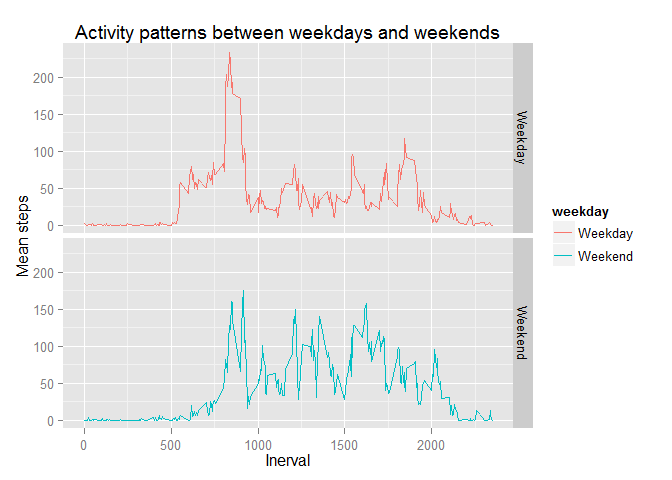
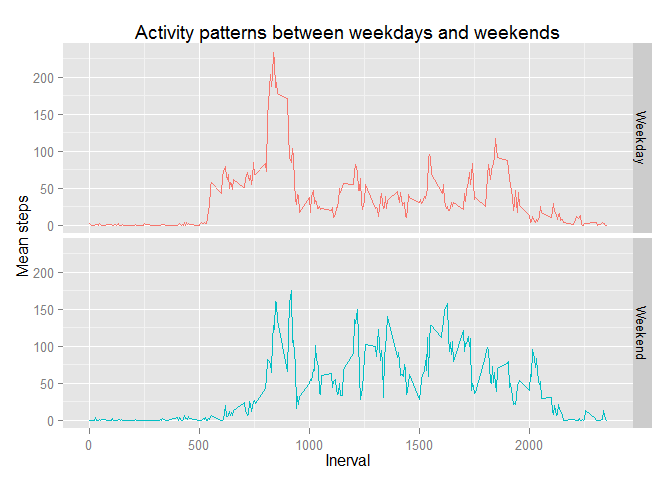
Clean up. Update README file.

diff --git a/PA1_ReproducibleResearch.html b/PA1_ReproducibleResearch.html
@@ -54,17 +54,17 @@ if (window.hljs && document.readyState && document.readyState === "complete") {
 <div id="header">
 <h1 class="title">Reproducible Research: Peer Assessment 1</h1>
 <h4 class="author"><em>Maria Loghin</em></h4>
-<h4 class="date"><em>November, 2016</em></h4>
+<h4 class="date"><em>December, 2016</em></h4>
 </div>
 
 
-<div id="about" class="section level3">
-<h3>About</h3>
-<p>This is the first assignment for Coursera Reproducible Research course, part of Data Science specialization.</p>
+<div id="about" class="section level2">
+<h2>About</h2>
+<p>This is the first assignment for Coursera Reproducible Research course, part of Data Science specialization (by Johns Hopkins University).</p>
 </div>
-<div id="synopsis" class="section level3">
-<h3>Synopsis</h3>
-<p>The purpose of the project is to make use of the R Markdown language to publish the analyses answering a series of questions related to a collection of data about personal movement using an activity monitoring device. The following steps will be performed are to interpret data and answer research questions</p>
+<div id="synopsis" class="section level2">
+<h2>Synopsis</h2>
+<p>The purpose of the project is to make use of the R Markdown language to publish the analyses answering a series of questions related to a collection of data about personal movement using an activity monitoring device. The following steps will be performed to interpret this data and to the answer research questions:</p>
 <ul>
 <li>Loading the dataset and/or processing the data</li>
 <li>What is the mean total number of steps taken per day?</li>
@@ -73,23 +73,22 @@ if (window.hljs && document.readyState && document.readyState === "complete") {
 <li>Differences in activity patterns between weekdays and weekends</li>
 </ul>
 </div>
-<div id="data" class="section level3">
-<h3>Data</h3>
+<div id="data" class="section level2">
+<h2>Data</h2>
 <p>The monitoring device collects data at 5 minute intervals throughout the day. The data consists of two months of data from an anonymous individual collected during the months of October and November, 2012 and include the number of steps taken in 5 minute intervals each day.</p>
-<p>The data for this assignment can be downloaded from the GitHub repository forked from here <a href="http://github.com/rdpeng/RepData_PeerAssessment1">GitHub repository created for this assignment</a></p>
+<p>The data for this assignment can be downloaded from the GitHub repository forked from here <a href="http://github.com/rdpeng/RepData_PeerAssessment1">GitHub repository created for this assignment</a>.</p>
 <ul>
 <li>Dataset: <a href="https://github.com/rdpeng/RepData_PeerAssessment1/blob/master/activity.zip">Activity monitoring data</a></li>
 </ul>
 </div>
-<div id="reproducible-research" class="section level3">
-<h3>Reproducible Research</h3>
-<div id="reading-in-the-dataset-andor-processing-the-data" class="section level4">
-<h4>1. Reading in the dataset and/or processing the data</h4>
+<div id="reproducible-research" class="section level2">
+<h2>Reproducible Research</h2>
+<div id="reading-in-the-dataset-andor-processing-the-data" class="section level3">
+<h3>1. Reading in the dataset and/or processing the data</h3>
 <p>The dataset is stored in a comma-separated-value (CSV) file.</p>
 <pre class="r"><code># Set the working directory 
-setwd(&quot;C:/Personal/MLB/Corsera/ReproducibleResearch/RepData_PeerAssessment1&quot;)
-
-# read file into data dataframe structure
+setwd(&quot;C:/Personal/MLB/Corsera/ReproducibleResearch/RepData_PeerAssessment1&quot;)</code></pre>
+<pre class="r"><code># read file into data dataframe structure
 file&lt;-&quot;./activity.csv&quot;
 temp&lt;-&quot;./activity.zip&quot;
 unzip(temp)
@@ -109,12 +108,13 @@ data$date &lt;- as.Date(data$date , format = &quot;%Y-%m-%d&quot;)</code></pre>
 <li>interval: Identifier for the 5-minute interval in which measurement was taken</li>
 </ul>
 </div>
-<div id="what-is-the-mean-total-number-of-steps-taken-per-day" class="section level4">
-<h4>2. What is the mean total number of steps taken per day?</h4>
+<div id="what-is-the-mean-total-number-of-steps-taken-per-day" class="section level3">
+<h3>2. What is the mean total number of steps taken per day?</h3>
 <pre class="r"><code>## load required libraries for ddply and ggplot functions
 require(plyr)
 require(ggplot2)
 
+# Set the R options to print numeric values
 options(scipen=999, digits=2)</code></pre>
 <p>Summarize the steps taken each day</p>
 <ul>
@@ -133,8 +133,8 @@ options(scipen=999, digits=2)</code></pre>
 medianSteps &lt;- median(DailyStepsSumm$steps)</code></pre>
 <p>The <code>mean</code> is <strong>10766.19</strong> and the <code>median</code> is <strong>10765</strong>.</p>
 </div>
-<div id="what-is-the-average-daily-activity-pattern" class="section level4">
-<h4>3. What is the average daily activity pattern?</h4>
+<div id="what-is-the-average-daily-activity-pattern" class="section level3">
+<h3>3. What is the average daily activity pattern?</h3>
 <p>Calculate the average number of steps taken on the 5-minute interval, across all days</p>
 <ul>
 <li>ignore the missing values in the dataset for “steps”&quot; variable</li>
@@ -151,8 +151,8 @@ medianSteps &lt;- median(DailyStepsSumm$steps)</code></pre>
 <pre class="r"><code>int_max_steps &lt;- subset(MeanByInterval, MeanByInterval$meansteps == max(MeanByInterval$meansteps))$interval</code></pre>
 <p>The 5-minute interval containing the maximum number of steps is <strong>835</strong>.</p>
 </div>
-<div id="imputing-missing-values" class="section level4">
-<h4>4. Imputing missing values</h4>
+<div id="imputing-missing-values" class="section level3">
+<h3>4. Imputing missing values</h3>
 <p>The presence of missing values may introduce bias into some calculations or summaries of the data. In the dataset exploration forward step we noted there are missing values for “steps” variable for a number of days/intervals.</p>
 <pre class="r"><code>countNA &lt;- sum(!complete.cases(data))</code></pre>
 <p>The total number of missing values in the dataset (the total number of rows with NAs) is <strong>2304</strong>.</p>
@@ -195,8 +195,8 @@ diffTotalSteps = sumStepsNA - sumSteps</code></pre>
 <li><strong>10766.19</strong></li>
 </ul>
 </div>
-<div id="differences-in-activity-patterns-between-weekdays-and-weekends" class="section level4">
-<h4>5. Differences in activity patterns between weekdays and weekends</h4>
+<div id="differences-in-activity-patterns-between-weekdays-and-weekends" class="section level3">
+<h3>5. Differences in activity patterns between weekdays and weekends</h3>
 <p><strong>Create a new variable indicating whether a given date is a weekday or weekend day</strong></p>
 <pre class="r"><code>data$weekday &lt;- ifelse(weekdays(data$date) %in% c(&quot;Sunday&quot;,&quot;Saturday&quot;),&quot;Weekend&quot;, &quot;Weekday&quot;) </code></pre>
 <p>Calculate the average number of steps taken, averaged across all weekday days or weekend days</p>
@@ -207,8 +207,9 @@ diffTotalSteps = sumStepsNA - sumSteps</code></pre>
   xlab(&quot;Inerval&quot;) + 
   ylab(&quot;Mean steps&quot;) + 
   ggtitle(&quot;Activity patterns between weekdays and weekends&quot;) +
-  facet_grid(weekday ~ .)</code></pre>
[1 lines of base64/hex data omitted]
+  facet_grid(weekday ~ .) +
+  theme(legend.position=&quot;none&quot;)</code></pre>
[1 lines of base64/hex data omitted]
 </div>
 </div>
 

diff --git a/README.md b/README.md
@@ -262,5 +262,3 @@ ggplot(data = MeanIntervalWday, aes(x=interval, y=meansteps)) +
 ```
 
 ![](./PA1_ReproducibleResearch_files/figure-html/unnamed-chunk-8-1.png) 
-
-
